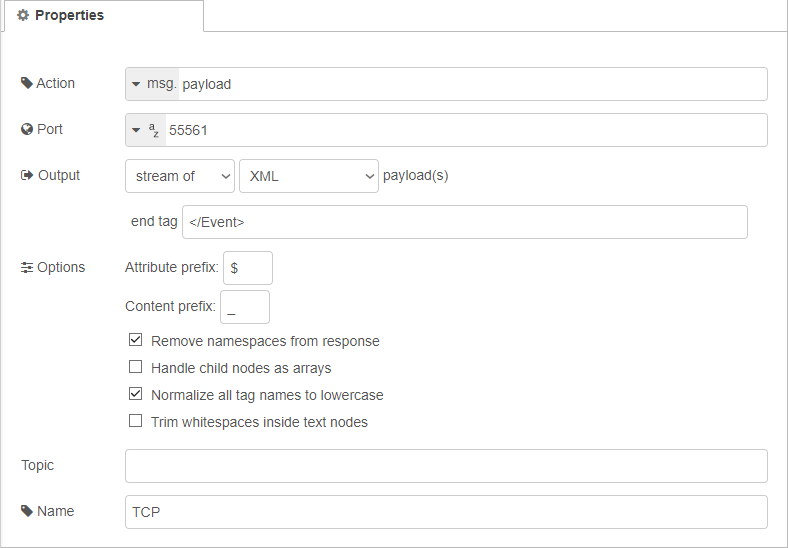
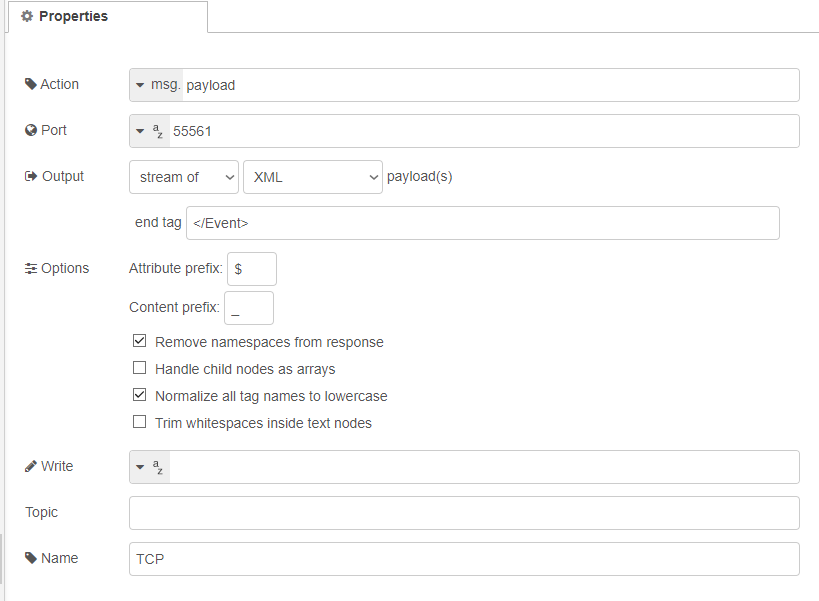
write function

diff --git a/tcp-client.html b/tcp-client.html
@@ -7,7 +7,7 @@
     </div>
 
     <div class="form-row">
-        <label for="node-input-host"><i class="fa fa-globe"></i> Port</label>
+        <label for="node-input-port"><i class="fa fa-globe"></i> Port</label>
         <input type="text" id="node-input-port" style="width:70%;" />
         <input type="hidden" id="node-input-portType">
     </div>
@@ -55,6 +55,12 @@
     </div>
 
     <div class="form-row">
+        <label for="node-input-write"><i class="fa fa-pencil"></i> Write</label>
+        <input type="text" id="node-input-write" style="width:70%;" />
+        <input type="hidden" id="node-input-writeType">
+    </div>
+
+    <div class="form-row">
         <label for="node-input-topic"><i class="icon-tag"></i> Topic</label>
         <input type="text" id="node-input-topic" placeholder="" style="width: 70%;">
     </div>
@@ -85,6 +91,8 @@
             xmlArray: { value: false },
             xmlNormalizeTags: { value: false },
             xmlNormalize: { value: false },
+            write: { value: "", required: false, validate: RED.validators.typedInput("writeType") },
+            writeType: { value: "str" },
             topic: { value: "" },
             name: { value: "" }
         },
@@ -151,6 +159,18 @@
             $("#node-input-port").typedInput({ 
                 default: 'str', 
                 typeField: $("#node-input-portType"),
+                types: ['str', 'msg', 'flow', 'global', 'env'] 
+            });
+
+            if (this.writeType == null || this.writeType === 'string' || this.writeType === 'none') {
+                this.writeType = "str";
+            }
+
+            $("#node-input-writeType").val(this.writeType);
+
+            $("#node-input-write").typedInput({ 
+                default: 'str', 
+                typeField: $("#node-input-writeType"),
                 types: ['str', 'msg', 'flow', 'global', 'env'] 
             });
 

diff --git a/tcp-client.js b/tcp-client.js
@@ -191,9 +191,28 @@ module.exports = function (RED) {
                 }
             };
 
+            var write = function() {
+
+                if (connectionPool[id] == null) return;
+                var socket = connectionPool[id];
+
+                var writeMsg = config.write;
+
+                if (config.writeType === 'msg' || config.writeType === 'flow' || config.writeType === 'global') {
+                    writeMsg = RED.util.evaluateNodeProperty(config.write, config.writeType, this, msg);
+                }
+
+                if (writeMsg == null) return;
+                socket.write(writeMsg);
+
+            };
+
             switch (node.action.toLowerCase()) {
                 case 'close':
                     close();
+                    break;
+                case 'write':
+                    write();
                     break;
                 default:
                     listen();
